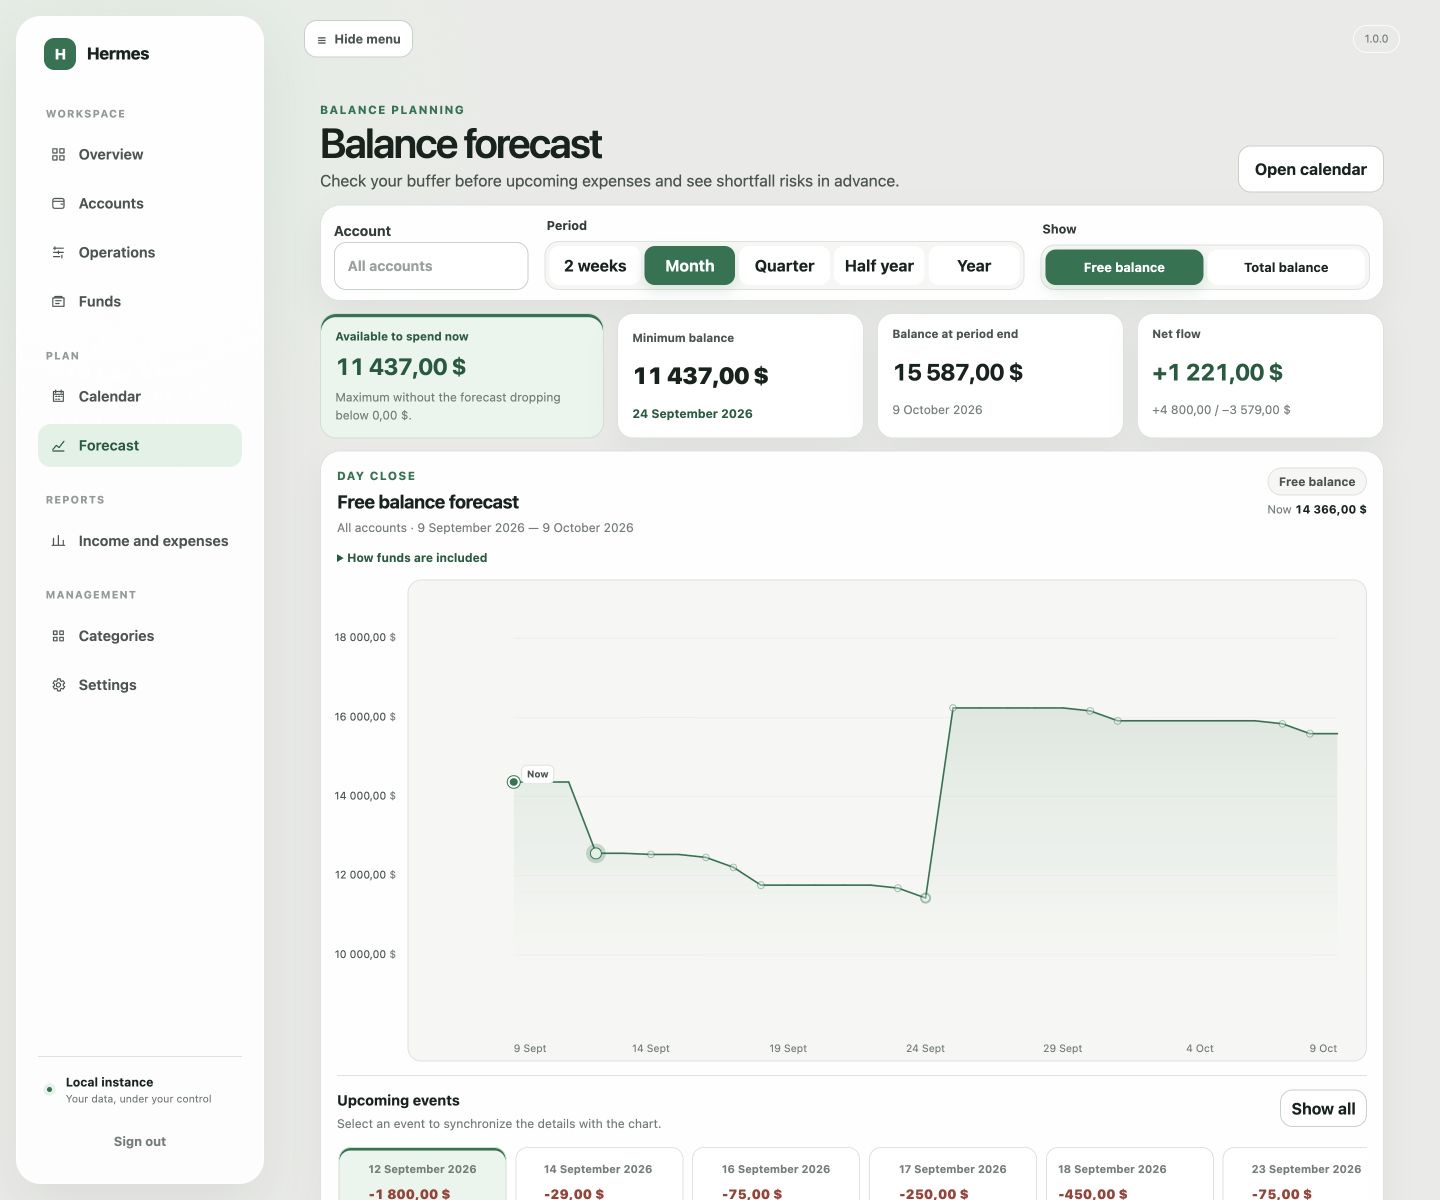
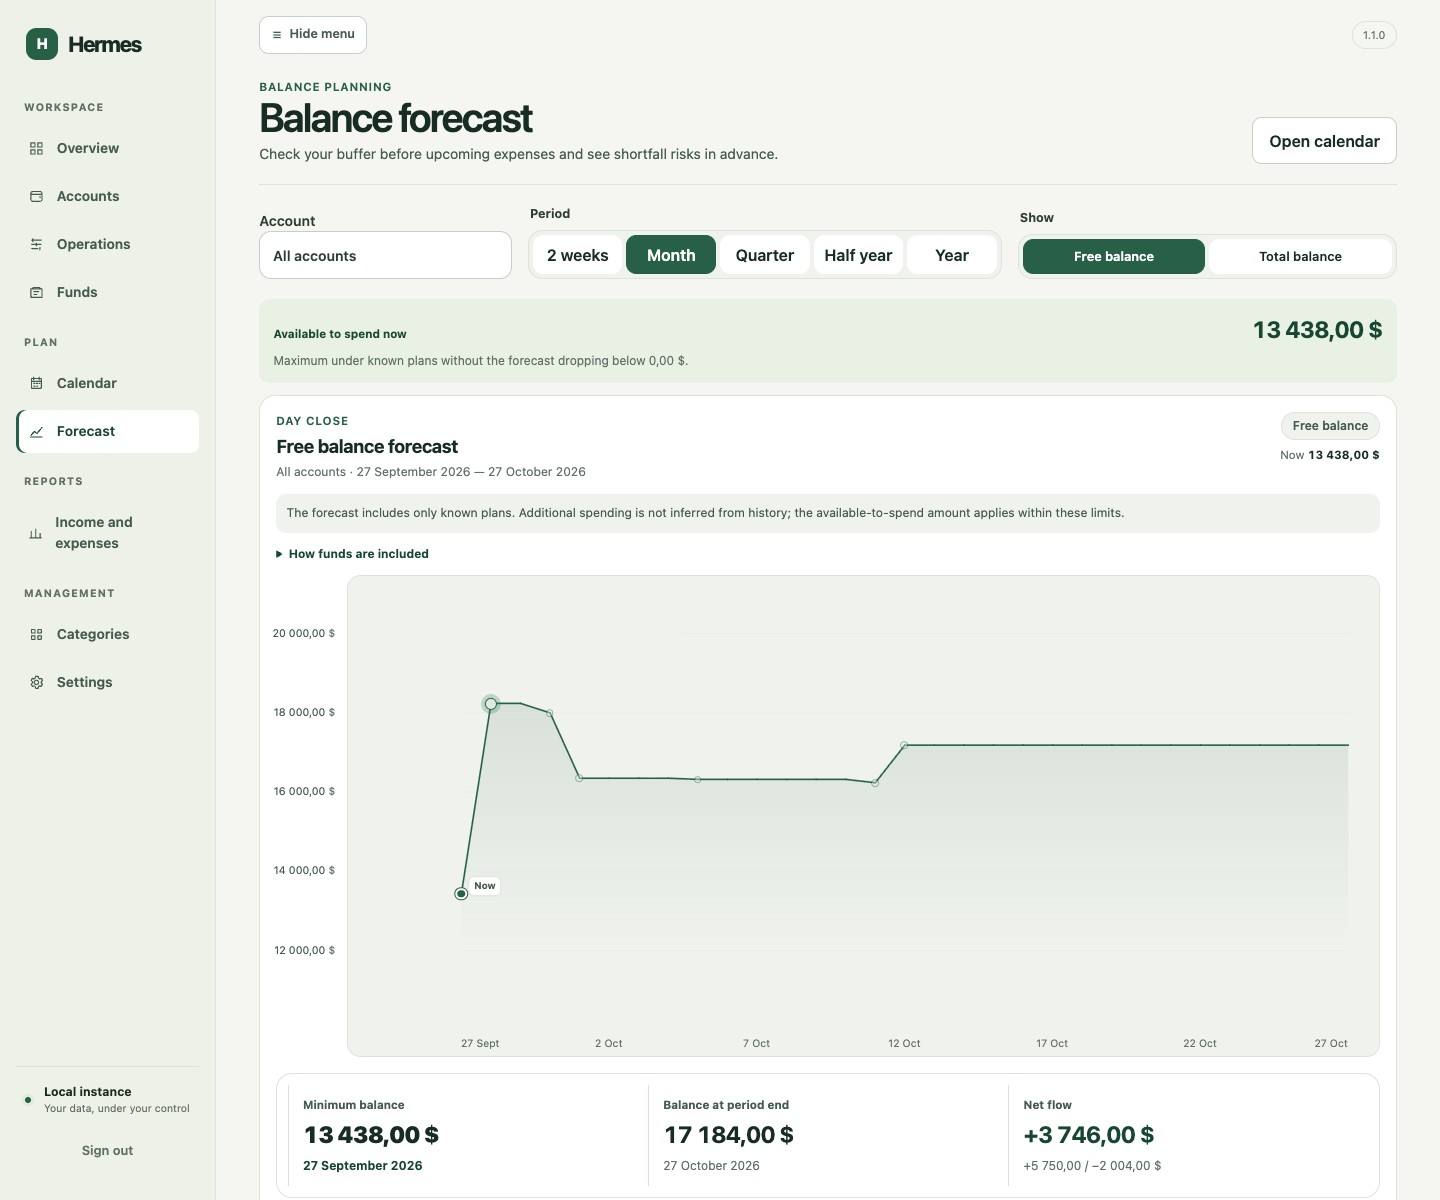
docs: Refresh README screenshots for financial atlas

diff --git a/docs/assets/readme/README.md b/docs/assets/readme/README.md
@@ -1,8 +1,10 @@
 # README screenshots
 
-These screenshots were captured on 2026-09-09 in Chrome from an isolated Hermes
-production-image instance running the pre-release build of `1.1.0`. The application version badge still reads `1.0.0`; no release version
-was changed for these images.
+These screenshots were captured on 2026-09-27 in headless Chrome from the current
+production frontend build served by a local Hermes backend with an isolated
+PostgreSQL database. They show the unreleased personal financial atlas refresh.
+The application version badge reads `1.1.0`; no release version was changed for
+these images.
 
 The interface language and all demonstration names are English. The dataset was
 created independently through the application API: two accounts, seven
@@ -14,6 +16,10 @@ selection never changes the accounting currency. No production backup was used.
 - Desktop images use a `1440 × 1200` viewport, except the calendar at
   `1440 × 1400` to include all six week rows.
 - `overview-mobile.jpg` uses a `390 × 844` viewport.
+- All five images were visually inspected. Browser checks found no Cyrillic
+  text, ruble symbols, horizontal document overflow or JavaScript page errors;
+  every captured page displayed dollar amounts. The production frontend build
+  passed with the existing bundle and component style budget warnings.
 - Images must preserve the current monetary display contract and must never use
   real account names, balances, operations, schedules, backup contents, or other
   personal financial data.

diff --git a/docs/project-status.md b/docs/project-status.md
@@ -1,6 +1,6 @@
 # Project status
 
-Last reviewed: 2026-09-26. This is the current release snapshot, not a task log.
+Last reviewed: 2026-09-27. This is the current release snapshot, not a task log.
 Detailed history belongs in [CHANGELOG](../CHANGELOG.md); future scope belongs in
 [roadmap](roadmap.md). Domain rules remain authoritative under [domains](index.md#domains).
 
@@ -37,6 +37,11 @@ Language selection does not change currency, financial precision, stored names,
 application dates or submitted domain values. The shared [UI contract](../DESIGN.md)
 retains exact two-place financial presentation and comma/dot numeric input.
 README images use synthetic English/USD data, never the owner's backup.
+All five README screenshots were refreshed on 2026-09-27 from the current
+production frontend build and an isolated local database. Desktop and mobile
+captures were visually inspected; browser checks verified English/USD content,
+no horizontal document overflow and no JavaScript page errors. Capture details
+are recorded in the [screenshot notes](assets/readme/README.md).
 
 ## Unreleased UI refresh
 
